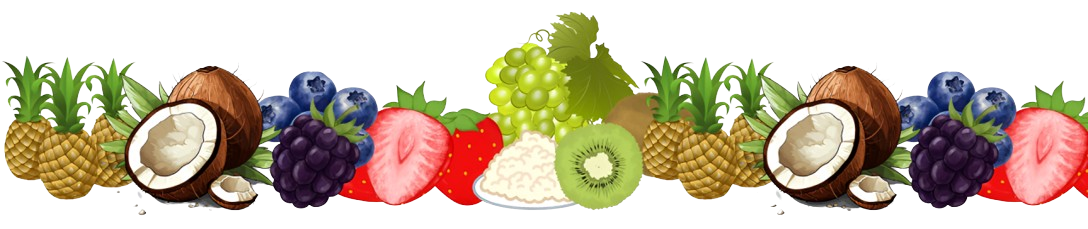
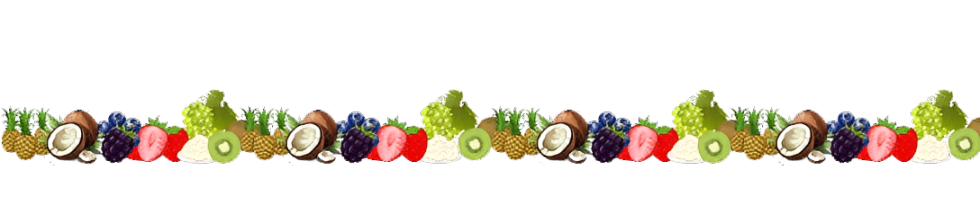
Estiliza el boton de inicio de sesion, header full-width y actualiza franja de frutas
- estilos.css: .site-header__login se convierte en tarjeta (borde,
  radio 12px, sombra suave) con hover translateY(-4px); el header en
  desktop (>=64rem) ya no esta limitado a max-width, ocupa el 100%
  del ancho de pantalla.
- Reemplaza img/franja-frutas.png por la nueva version (patron
  repetido) y ajusta sus atributos width/height en index.html.
- Ajustes menores de texto en index.html y nosotros.html.

diff --git a/css/estilos.css b/css/estilos.css
@@ -247,7 +247,16 @@ ul {
   display: none;
   font-size: var(--fs-sm);
   text-decoration: none;
-  padding: var(--space-xs);
+  padding: 0.4rem 0.9rem;
+  border: 1px solid var(--color-border);
+  border-radius: 12px;
+  box-shadow: var(--shadow);
+  transition: transform 0.25s ease, box-shadow 0.25s ease;
+}
+
+.site-header__login:hover {
+  transform: translateY(-4px);
+  box-shadow: 0 0.75rem 1.5rem rgba(0, 0, 0, 0.12);
 }
 
 .nav__login-item {
@@ -983,8 +992,7 @@ main section {
     display: flex;
     align-items: center;
     gap: var(--space-md);
-    max-width: var(--max-width);
-    margin: 0 auto;
+    width: 100%;
     padding: var(--space-sm) var(--space-md);
   }
 

diff --git a/index.html b/index.html
@@ -103,7 +103,7 @@
           </div>
 
           <p id="hero-bio" class="hero__bio">
-            Estudiante Politécnica de la ESPOL y emprendedora de productos naturales a base de
+            Estudiante Politécnica de la ESPOL y emprendedora de productos ricos en nutrientes con una presentación atractiva, a base de
             kéfir llamado Kefi-Fresh.
           </p>
 
@@ -134,8 +134,8 @@
         src="img/franja-frutas.png"
         alt=""
         role="presentation"
-        width="1088"
-        height="229"
+        width="980"
+        height="206"
         loading="lazy"
       />
 

diff --git a/nosotros.html b/nosotros.html
@@ -95,7 +95,7 @@
 
           <p id="hero-bio" class="hero__bio">
             Hi KefiLovers, soy Darlin Zamora, estudiante Politécnica de la ESPOL y emprendedora de
-            productos naturales a base de kéfir llamado Kefi-Fresh.
+            productos ricos en nutrientes con una presentación atractiva, a base de kéfir llamado Kefi-Fresh.
           </p>
         </div>
 
